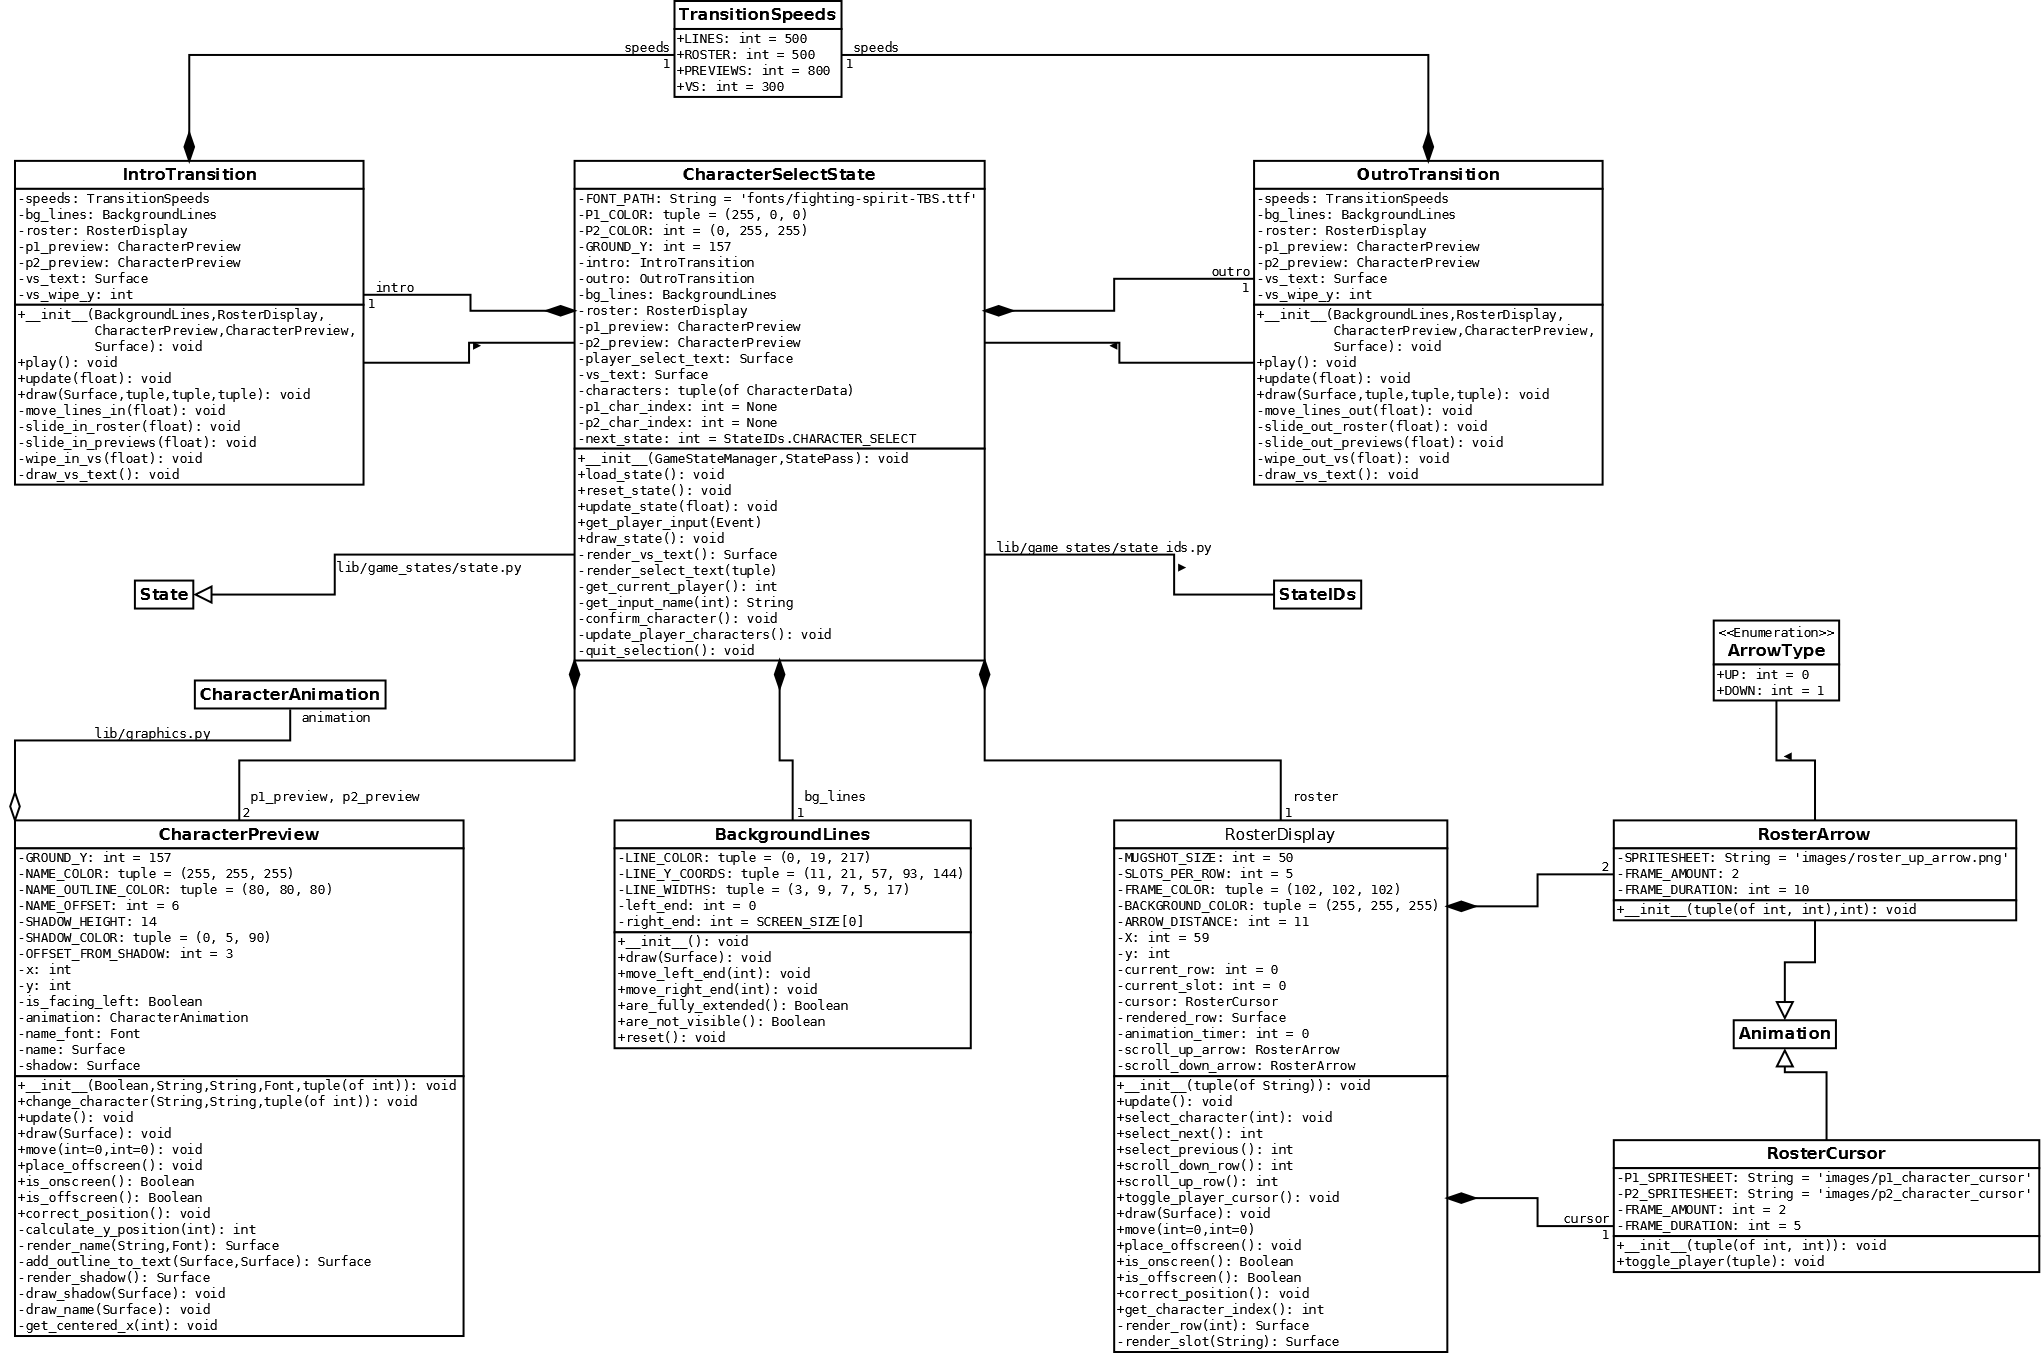
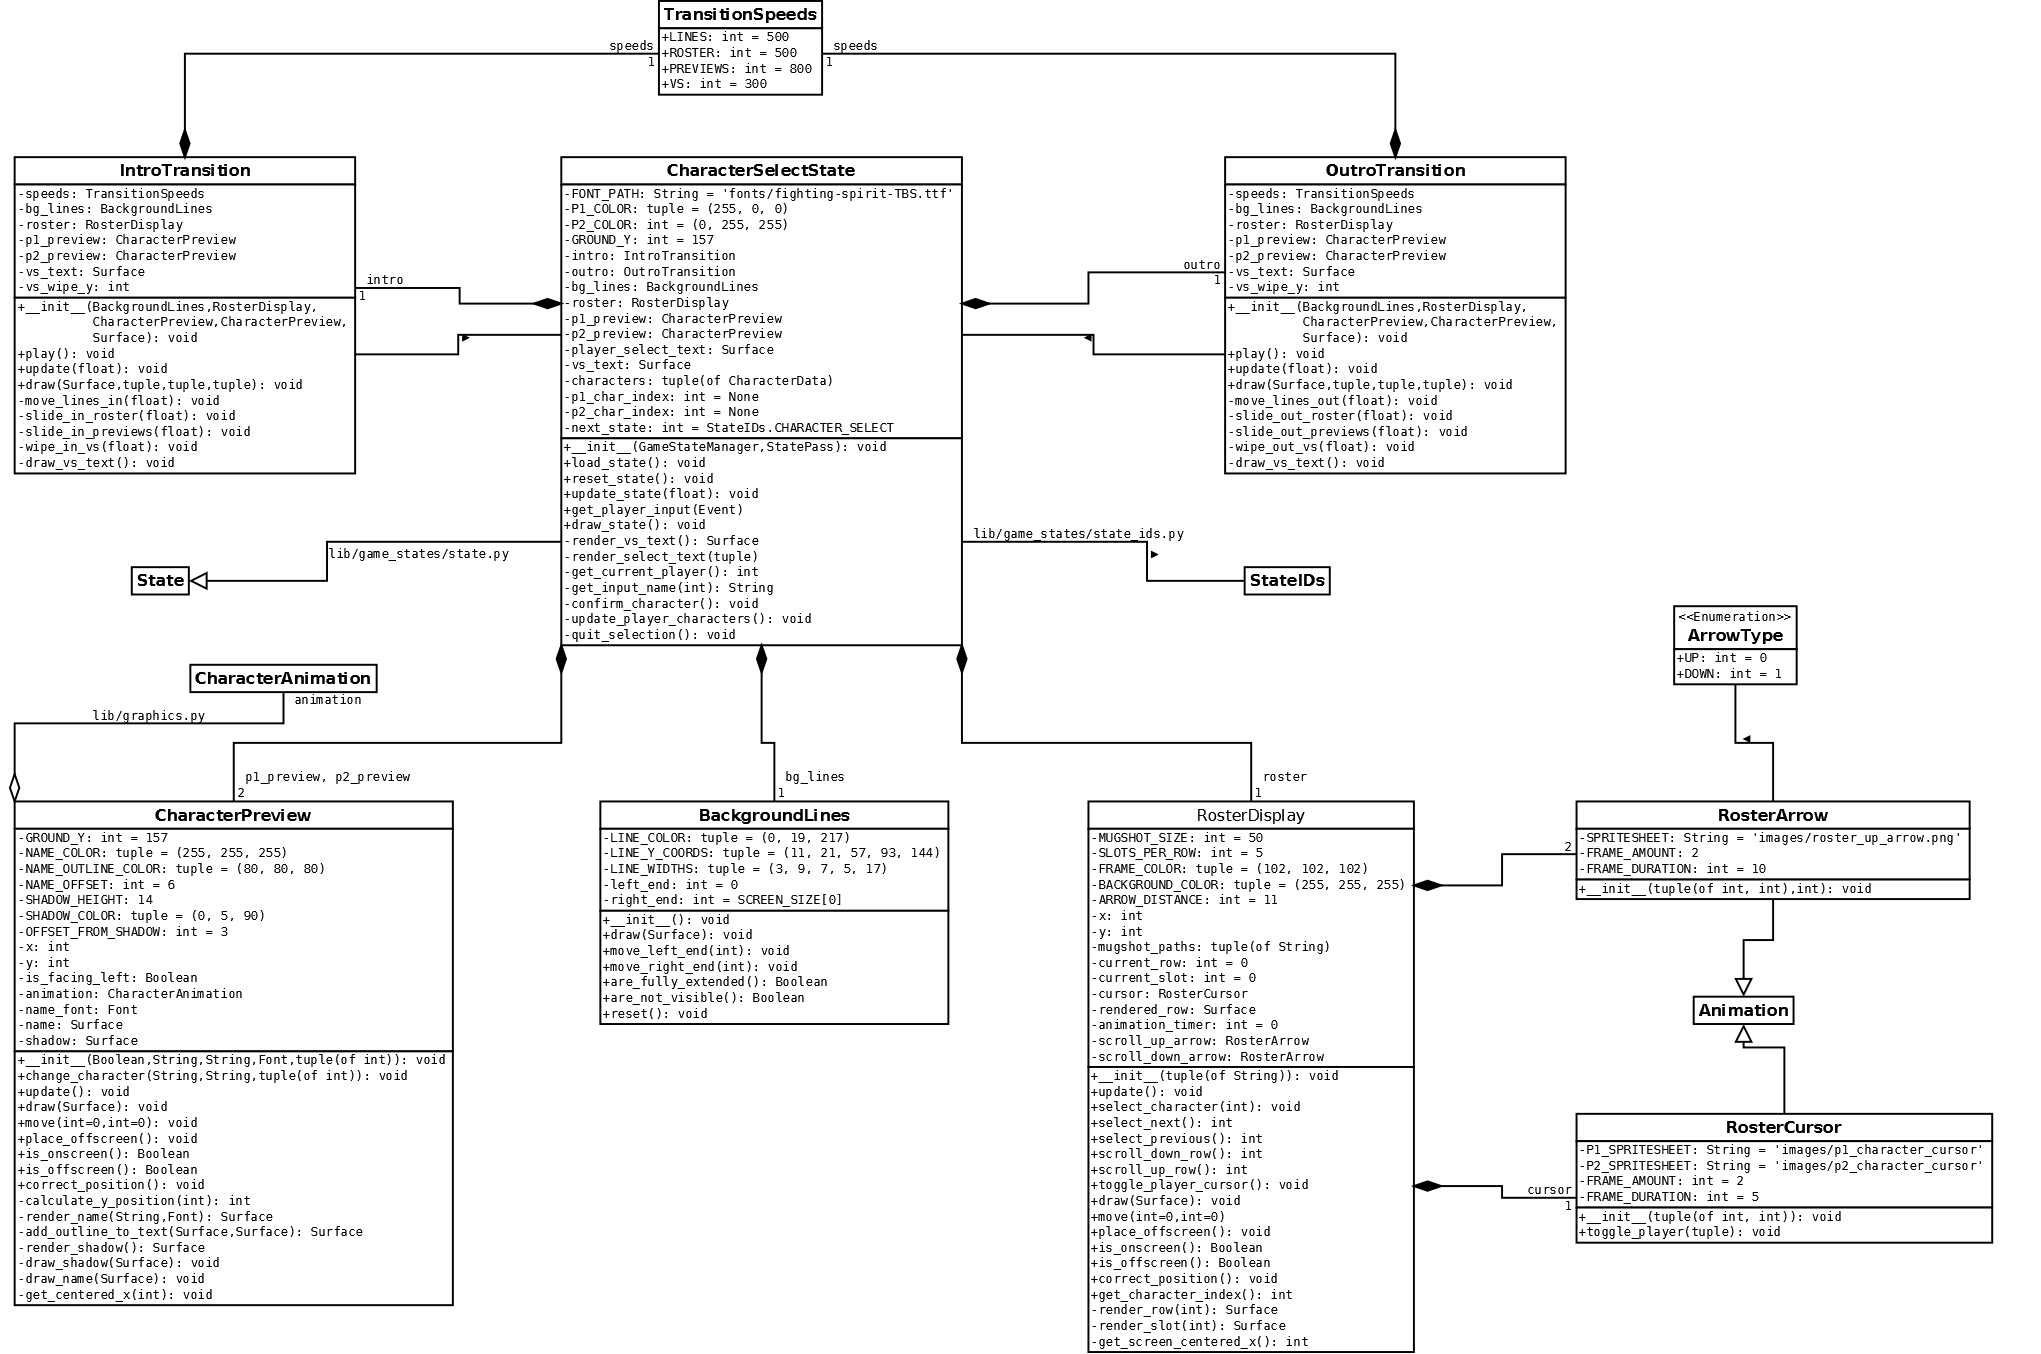
RosterDisplay: Add get_screen_centered_x()
This means that X is no longer a constant, but a value that is
dynamically calculated based on the width of the row Surface.
This adds much more flexibility to the class, as the value of
SLOTS_PER_ROW can be changed at any time and the rest of the class will
automatically reaccommodate it.

diff --git a/lib/game_states/character_select_state.py b/lib/game_states/character_select_state.py
@@ -48,6 +48,8 @@ class RosterDisplay():
                 paths of each character's mugshot image.
         """
         self.mugshot_paths = mugshot_paths
+        self.rendered_row = self.render_row(0)
+        self.x = self.get_screen_centered_x()
 
     def render_row(self, row_index):
         """Render a row of mugshots in order from the mugshot list.
@@ -115,6 +117,12 @@ class RosterDisplay():
         a character slot (mugshot + frame).
         """
         return self.MUGSHOT_SIZE + (self.FRAME_THICKNESS * 2)
+
+    def get_screen_centered_x(self):
+        """Return an integer for the x-position that will center the
+        roster on the screen.
+        """
+        return (SCREEN_SIZE[0] - self.rendered_row.get_width()) / 2
 
 
 class RosterArrow(Animation):
